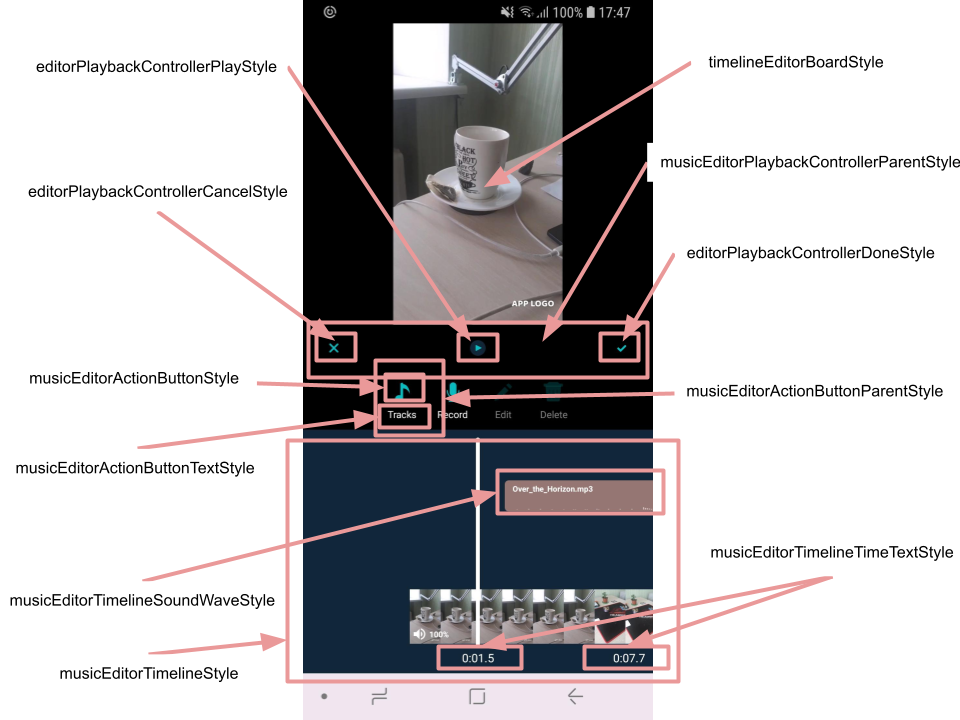
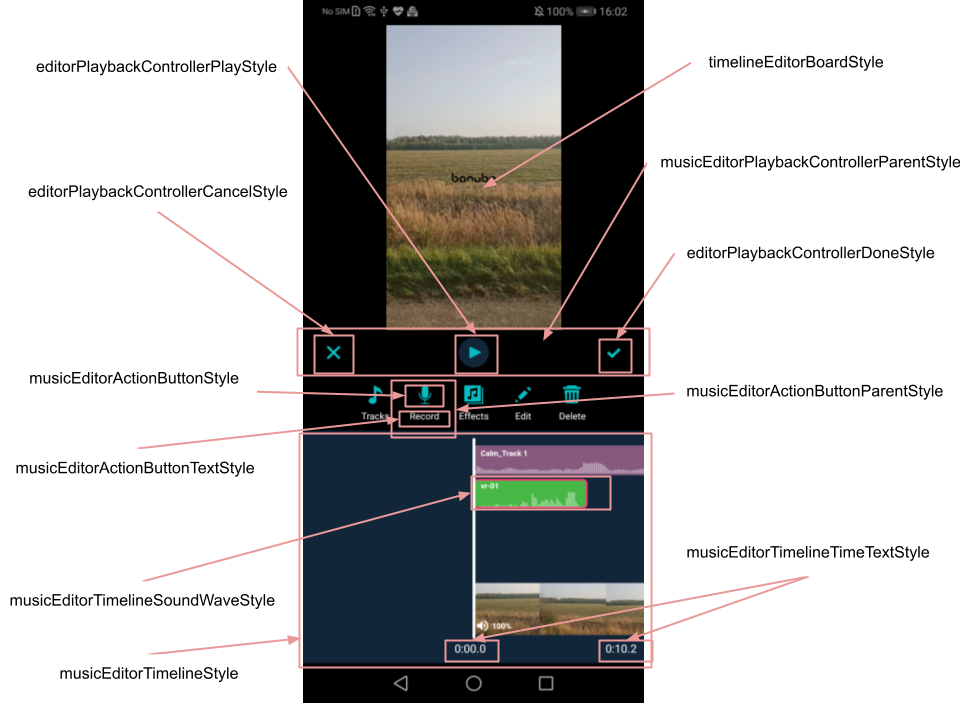
refactoring documentation

diff --git a/mddocs/music_editor_styles.md b/mddocs/music_editor_styles.md
@@ -25,10 +25,12 @@
 
     style for the ImageView representing an icon for action button. Drawables for all action buttons in music editor are configured in custom theme attributes:
     - [music_editor_icon_tracks](https://github.com/Banuba/ve-sdk-android-integration-sample/blob/1e37324dea76304e8e9205d463844ac5c8c199f7/app/src/main/res/values/themes.xml#L227) - to open music track selection
-    - [music_editor_icon_effects](https://github.com/Banuba/ve-sdk-android-integration-sample/blob/1e37324dea76304e8e9205d463844ac5c8c199f7/app/src/main/res/values/themes.xml#L228) - to open music effect selection. Recently deprecated
     - [music_editor_icon_track_recording](https://github.com/Banuba/ve-sdk-android-integration-sample/blob/1e37324dea76304e8e9205d463844ac5c8c199f7/app/src/main/res/values/themes.xml#L229) - to show voice recording screen
+    - [music_editor_icon_track_effects](https://github.com/Banuba/ve-sdk-android-integration-sample/blob/main/app/src/main/res/values/themes.xml#L234) - to open voice recording effects selection
     - [music_editor_icon_track_edit](https://github.com/Banuba/ve-sdk-android-integration-sample/blob/1e37324dea76304e8e9205d463844ac5c8c199f7/app/src/main/res/values/themes.xml#L230) - to open music trimmer for the selected music track
     - [music_editor_icon_track_delete](https://github.com/Banuba/ve-sdk-android-integration-sample/blob/1e37324dea76304e8e9205d463844ac5c8c199f7/app/src/main/res/values/themes.xml#L232) - to delete selected music track
+
+![img](screenshots/musiceditor1_1.png)
 
 - [musicEditorActionButtonTextStyle](https://github.com/Banuba/ve-sdk-android-integration-sample/blob/1e37324dea76304e8e9205d463844ac5c8c199f7/app/src/main/res/values/themes.xml#L168)
 
@@ -121,8 +123,8 @@ Music Editor screen also has some theme attributes that define background of som
 | ResourceId        |      Value      |   Description |
 | ------------- | :----------- | :------------- |
 | action_add_music_track | Tracks | title of the button to add tracks on the timeline
-| action_add_music_effect | Effects | title of the button to add voice effects on the voice recording
 | action_add_voice_recording | Record | title of the button to add voice recording to the timeline
+| action_effects | Effects | title of the button to add voice effects on the voice recording
 | action_edit | Edit | title of the button to edit music effect (or object effect if applies on the timeline screen)
 | action_delete | Delete | title of the button to delete selected music effect (or object effect if applies on the timeline screen)
 | edit_track_volume_title | Volume | text label shown together with the value when volume of the music effect and video change
